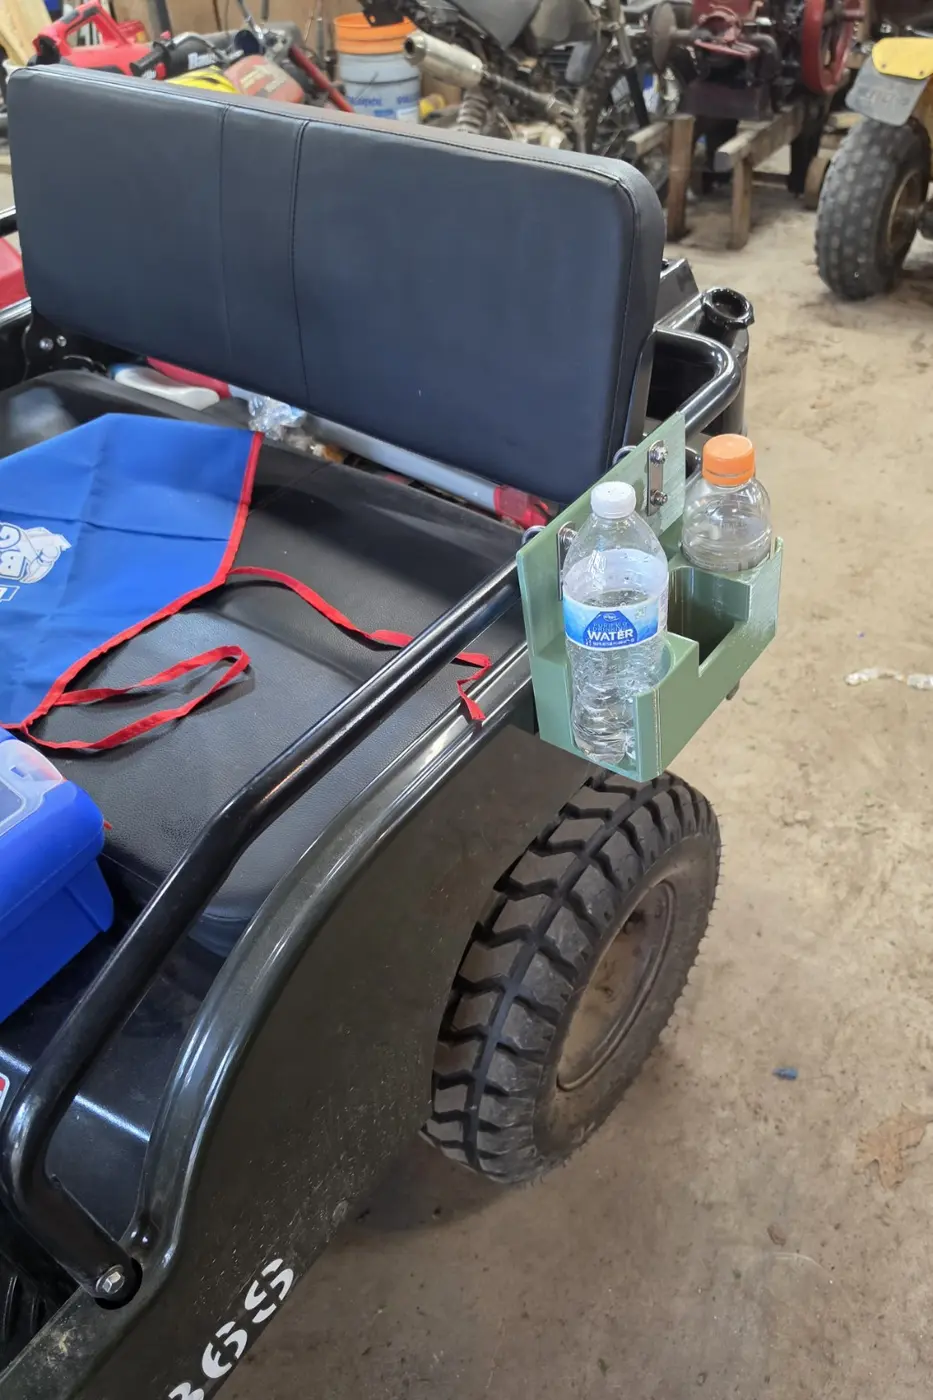
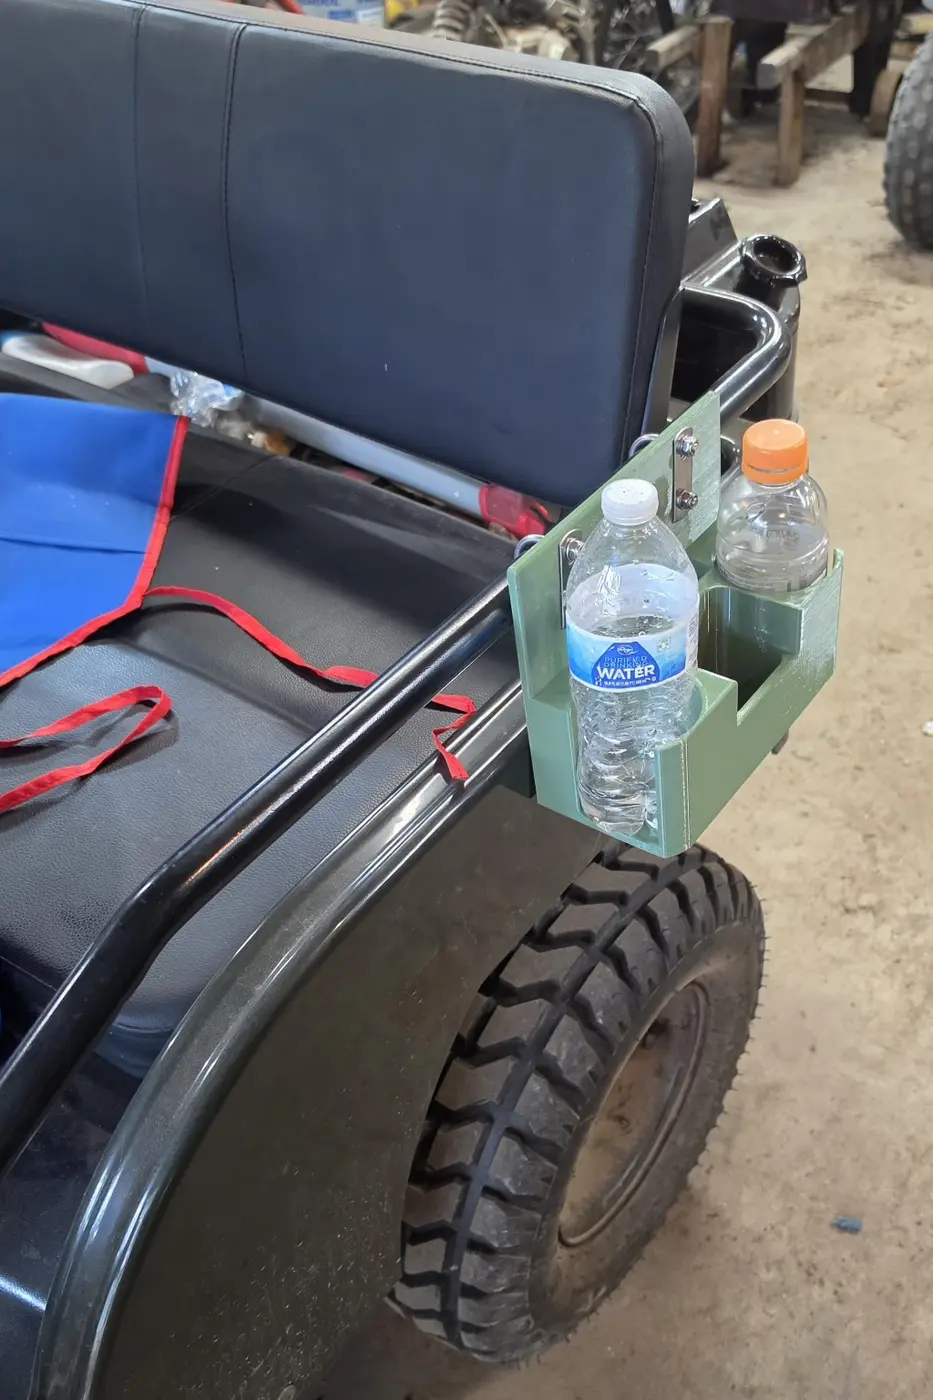
Update mini Jeep product photo and hardware details

diff --git a/mini-jeep-cup-holder/index.html b/mini-jeep-cup-holder/index.html
@@ -56,7 +56,7 @@
       <li><strong>Drink storage</strong><span>Two holders for cans or bottles</span></li>
       <li><strong>Phone slot</strong><span>Fits a Samsung Galaxy S26 Ultra in an OtterBox Commuter case</span></li>
       <li><strong>Open storage</strong><span>One smaller uncovered compartment for loose items</span></li>
-      <li><strong>Mounting</strong><span>Clamps to the mini Jeep side rail with the included hardware</span></li>
+      <li><strong>Mounting</strong><span>Clamps to the mini Jeep side rail with the included stainless-steel hardware</span></li>
       <li><strong>Purchase options</strong><span>One complete unit or a pair for both sides</span></li>
     </ul>
 
